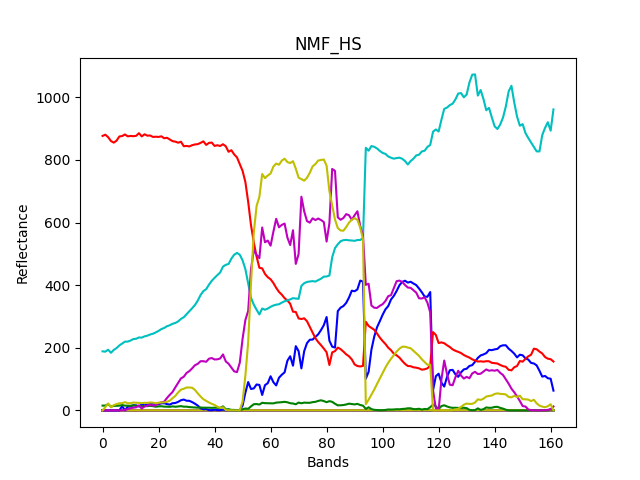
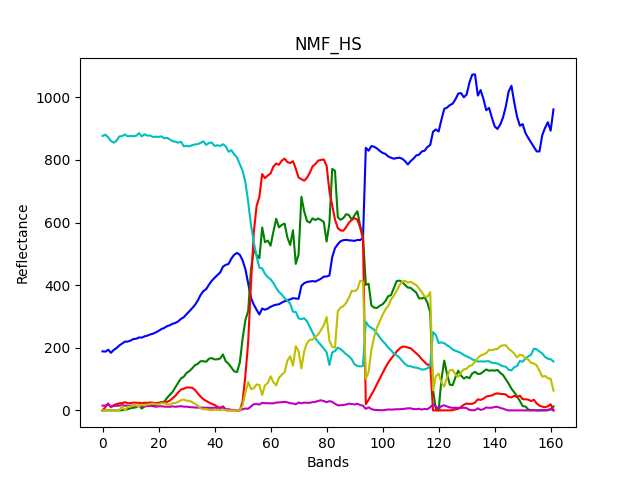
added graph nmf

diff --git a/main.py b/main.py
@@ -9,6 +9,9 @@ from scipy.io import loadmat
 from metrics import find_similarity
 from metrics import Similarity
 from models.nmf_hs import nmf_hs
+# from models.libNMF.knmf import knmf_model
+from models.nmf_hs_l1_2 import nmf_hs_l1_2
+from models.gnmf import gnmf
 
 
 class NMF_Models:
@@ -18,6 +21,8 @@ class NMF_Models:
         self.num_endmembers = num_endmembers
         self.set_w_gt()
         self.W_nmf_hs = None 
+        self.W_nmf_hs_l1_2 = None 
+        self.W_gnmf = None 
         if(not reload): self.load_matrices()
 
 
@@ -26,12 +31,24 @@ class NMF_Models:
         if(self.W_nmf_hs is not None):
             self.W_nmf_hs = self.W_nmf_hs.astype(np.float64) 
             mat_dic["W_nmf_hs"] = self.W_nmf_hs
+        if(self.W_nmf_hs_l1_2 is not None):
+            self.W_nmf_hs_l1_2 = self.W_nmf_hs_l1_2.astype(np.float64) 
+            mat_dic["W_nmf_hs_l1_2"] = self.W_nmf_hs_l1_2
+        
+        if(self.W_gnmf is not None):
+            self.W_gnmf = self.W_gnmf.astype(np.float64) 
+            mat_dic["W_gnmf"] = self.W_gnmf
+
         savemat("generated_data/data.mat", mat_dic)
 
     def load_matrices(self):
         mat_dic = loadmat('generated_data/data.mat')
         if("W_nmf_hs" in mat_dic):
             self.W_nmf_hs = mat_dic["W_nmf_hs"]
+        if("W_nmf_hs_l1_2" in mat_dic):
+            self.W_nmf_hs_l1_2 = mat_dic["W_nmf_hs_l1_2"]
+        if("W_gnmf" in mat_dic):
+            self.W_gnmf = mat_dic["W_gnmf"]
 
     def set_w_gt(self, endmembers = 6):
         hs_gt_image = None
@@ -57,14 +74,37 @@ class NMF_Models:
         
         pathname = "img/" + title + ".png"
         plt.savefig(pathname)
+        plt.clf()
 
     def run_nmf_hs(self):
         if(self.W_nmf_hs is None):
             self.W_nmf_hs, H, error = nmf_hs(self.X, 1000.0, 1000, self.num_endmembers)
             self.save_matrices()
-        err, best_ordering = find_similarity(self.W_nmf_hs, self.W_gt, similarity_type=Similarity.HAMMING_DISTANCE)
+        err, best_ordering = find_similarity(self.W_nmf_hs, self.W_gt, similarity_type=Similarity.COSINE_DISTANCE)
         self.plot_endmembers(self.W_nmf_hs, title="NMF_HS", ordering=best_ordering)
         print("The error is", err)
+    
+
+    def run_gmnf(self):
+        if(self.W_gnmf is None):
+            self.W_gnmf, H, error = nmf_hs(self.X, 1000.0, 1000, self.num_endmembers)
+            self.save_matrices()
+        err, best_ordering = find_similarity(self.W_gnmf, self.W_gt, similarity_type=Similarity.COSINE_DISTANCE)
+        self.plot_endmembers(self.W_gnmf, title="GNMF", ordering=best_ordering)
+        print("The error is", err)
+
+    def run_nmf_l1_2(self):
+        if(self.W_nmf_hs_l1_2 is None):
+            self.W_nmf_hs_l1_2, H, error = nmf_hs_l1_2(self.X, 1000.0, 0.5, 1000, self.num_endmembers)
+            self.save_matrices()
+        err, best_ordering = find_similarity(self.W_nmf_hs_l1_2, self.W_gt, similarity_type=Similarity.COSINE_DISTANCE)
+        self.plot_endmembers(self.W_nmf_hs_l1_2, title="NMF_HS_L1_2", ordering=best_ordering)
+        print("The error is", err)
+        
+
+    # def run_knmf(self):
+    #     knmf_model(self.X, self.num_endmembers)
+
 
     def plot_gt(self):
         self.plot_endmembers(self.W_gt, title="Groundtruth")
@@ -73,3 +113,6 @@ class NMF_Models:
 models = NMF_Models()
 models.plot_gt()
 models.run_nmf_hs()
+# models.run_knmf()
+models.run_nmf_l1_2()
+models.run_gmnf()

diff --git a/models/gnmf.py b/models/gnmf.py
@@ -1,0 +1,7 @@
+from libnmf.gnmf import GNMF
+
+
+def gnmf(X, rank):
+    gnmf_model = GNMF(X, rank)
+    gnmf_model.compute_factors(max_iter=20, lmd=0.3, weight_type='heat-kernel', param= 0.4)
+    return gnmf_model.W, gnmf_model.H, gnmf_model.div_error

diff --git a/models/nmf_hs_l1_2.py b/models/nmf_hs_l1_2.py
@@ -2,7 +2,7 @@ import numpy as np
 from numba import jit
 
 
-@jit(nopython=True, parallel=True)
+# @jit(nopython=True, parallel=True)
 def nmf_hs_l1_2(X, delta, lambd, iters, components):
     (rows, cols) = X.shape
     # Initialize A and S
